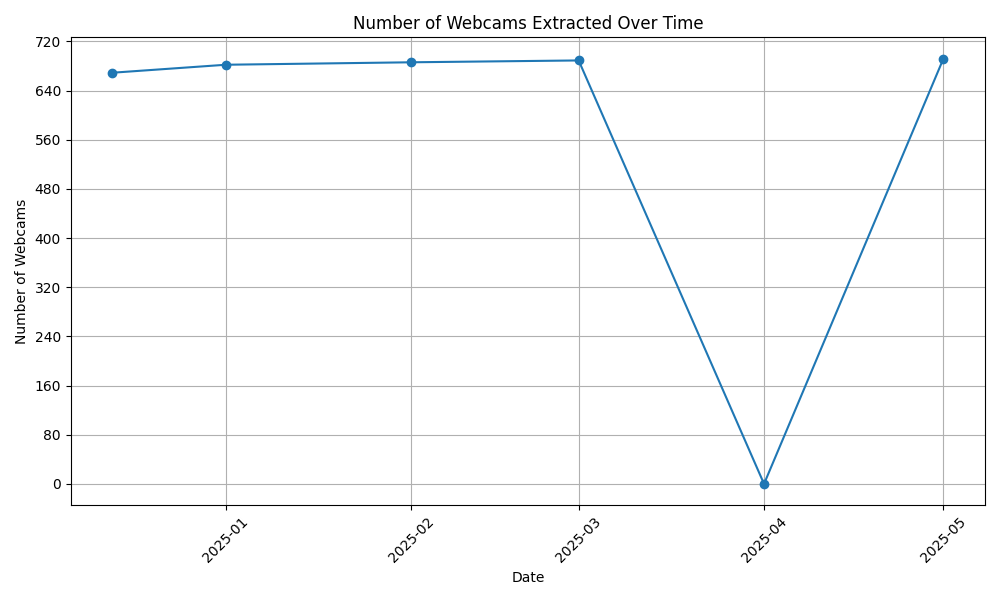
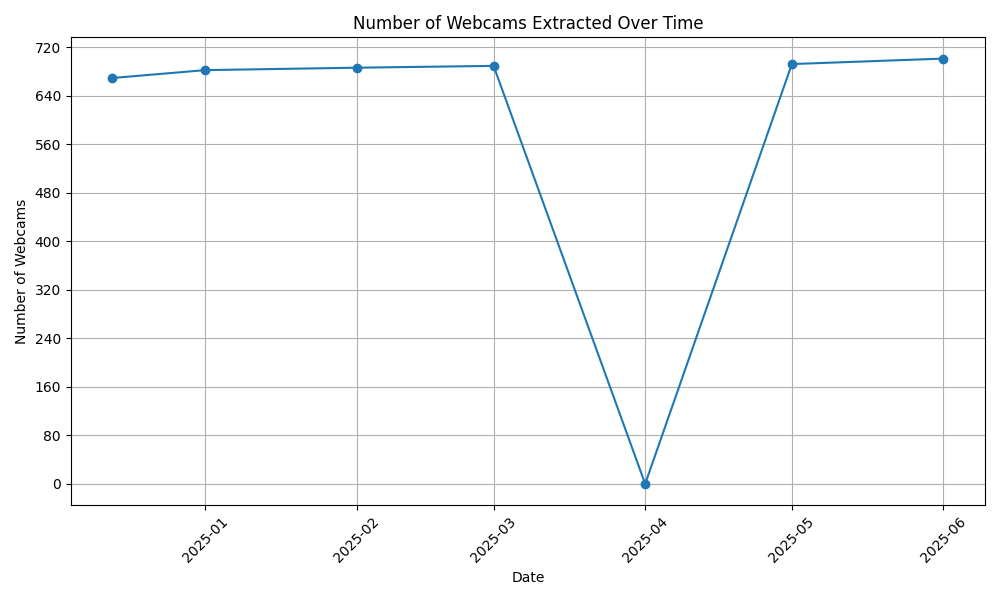
Skaping 2025-06-01

diff --git a/Skaping/README.md b/Skaping/README.md
@@ -1,10 +1,10 @@
 # Skaping 🎥
 
-**Data last updated on: 2025-05-01**
+**Data last updated on: '2025-06-01'**
 
 Data extracted from: [Skaping](https://www.skaping.com)
 
-![History Diagram](webcam_count_history.png?img_date=2025-05-01)
+![History Diagram](webcam_count_history.png?img_date='2025-06-01')
 
 ## 📅 Use the Latest Data Scraped Each Month
 
